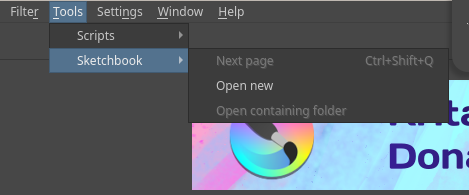
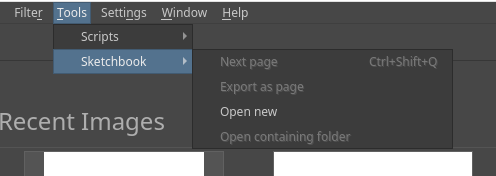
Update README.md

diff --git a/README.md b/README.md
@@ -22,5 +22,5 @@ Other scripts can be used with `Ten Scripts` builtin plugin. Enjoy!
 
 # Changelog
 
-- Added exporting as page (without need to create new empty document after saving current page)
+- Added: exporting as page (allows to keep current document after saving it as a next page)
 - Fixed: missing text on the tools dropdown
